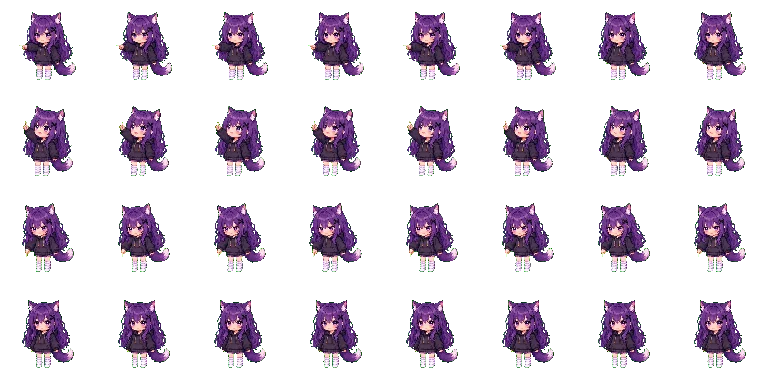
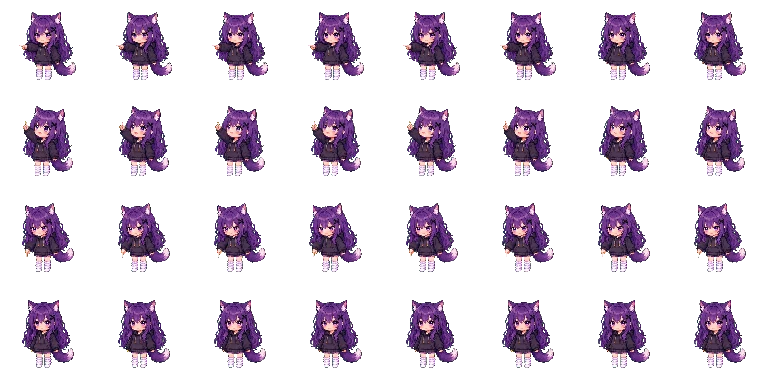
Replace Naru atlases with pre-keyed alpha sprite sheets.

diff --git a/scripts/process_naru_assets.py b/scripts/process_naru_assets.py
@@ -1,65 +1,54 @@
-"""Chroma-key Naru sprite sheets. Preserves exact atlas dimensions (no crop on sheets)."""
+"""Publish Naru atlases from pre-keyed (alpha) sources under images/naru/catgirl/."""
 from PIL import Image
-import numpy as np
 from pathlib import Path
 
 ROOT = Path(r"D:\Projects\White-Studio-Website-Games\assets\images\naru")
-RAW = ROOT / "_raw" / "catgirl"
+SRC = ROOT / "catgirl"
 OUT = ROOT
+RAW_CANON = ROOT / "_raw" / "catgirl"
 
 
-def chroma_key(img: Image.Image) -> Image.Image:
-    rgba = img.convert("RGBA")
-    arr = np.asarray(rgba).astype(np.float32)
-    r, g, b = arr[..., 0], arr[..., 1], arr[..., 2]
-    greenness = g - np.maximum(r, b)
-    alpha = np.ones_like(g) * 255.0
-    mask_hard = (greenness > 40) & (g > 90) & (g > r + 25) & (g > b + 25)
-    mask_soft = (greenness > 18) & (g > 70) & (g > r + 10) & (g > b + 10)
-    alpha[mask_soft] = np.clip(255 - (greenness[mask_soft] - 18) * 8, 0, 255)
-    alpha[mask_hard] = 0
-    spill = mask_soft & ~mask_hard
-    g2 = g.copy()
-    g2[spill] = np.minimum(g2[spill], np.maximum(r[spill], b[spill]) + 8)
-    out = np.stack([r, g2, b, alpha], axis=-1).astype(np.uint8)
-    return Image.fromarray(out, "RGBA")
+def save_sheet(src_name: str, out_stem: str) -> None:
+    src = SRC / src_name
+    im = Image.open(src).convert("RGBA")
+    png = OUT / f"{out_stem}.png"
+    webp = OUT / f"{out_stem}.webp"
+    im.save(png, optimize=True)
+    im.save(webp, "WEBP", quality=90, method=6)
+    # Keep canonical raw copy (already alpha — no green)
+    RAW_CANON.mkdir(parents=True, exist_ok=True)
+    im.save(RAW_CANON / src_name, optimize=True)
+    print(f"{out_stem:28} {im.size} png={png.stat().st_size/1024:.0f}KB webp={webp.stat().st_size/1024:.0f}KB")
 
 
-def process_sheet(name: str, quality: int = 90) -> None:
-    src = RAW / name
-    keyed = chroma_key(Image.open(src))
-    stem = Path(name).stem
-    # Keep full atlas size for CSS background-position clipping.
-    png_path = OUT / f"{stem}.png"
-    webp_path = OUT / f"{stem}.webp"
-    keyed.save(png_path, optimize=True)
-    keyed.save(webp_path, "WEBP", quality=quality, method=6)
-    print(f"{stem:32} {keyed.size}  png={png_path.stat().st_size/1024:.0f}KB webp={webp_path.stat().st_size/1024:.0f}KB")
-
-
-def process_anchor() -> None:
-    src = RAW / "naru-style-anchor-512.png"
-    keyed = chroma_key(Image.open(src))
-    bbox = keyed.getbbox()
+def save_anchor() -> None:
+    src = SRC / "naru-style-anchor-512.png"
+    im = Image.open(src).convert("RGBA")
+    bbox = im.getbbox()
     if bbox:
         pad = 8
         x0, y0, x1, y1 = bbox
         x0 = max(0, x0 - pad)
         y0 = max(0, y0 - pad)
-        x1 = min(keyed.width, x1 + pad)
-        y1 = min(keyed.height, y1 + pad)
-        keyed = keyed.crop((x0, y0, x1, y1))
-    keyed.save(OUT / "naru-style-anchor.png", optimize=True)
-    keyed.save(OUT / "naru-style-anchor.webp", "WEBP", quality=90, method=6)
-    print(f"{'naru-style-anchor':32} {keyed.size}")
+        x1 = min(im.width, x1 + pad)
+        y1 = min(im.height, y1 + pad)
+        cropped = im.crop((x0, y0, x1, y1))
+    else:
+        cropped = im
+    cropped.save(OUT / "naru-style-anchor.png", optimize=True)
+    cropped.save(OUT / "naru-style-anchor.webp", "WEBP", quality=90, method=6)
+    RAW_CANON.mkdir(parents=True, exist_ok=True)
+    im.save(RAW_CANON / "naru-style-anchor-512.png", optimize=True)
+    print(f"{'naru-style-anchor':28} {cropped.size}")
 
 
 def main() -> None:
-    OUT.mkdir(parents=True, exist_ok=True)
-    process_anchor()
-    process_sheet("naru-core-c8r4-96.png")
-    process_sheet("naru-guide-c8r4-96.png")
-    process_sheet("naru-react-c8r3-96.png")
+    if not SRC.is_dir():
+        raise SystemExit(f"Missing source folder: {SRC}")
+    save_anchor()
+    save_sheet("naru-core-c8r4-96.png", "naru-core-c8r4-96")
+    save_sheet("naru-guide-c8r4-96.png", "naru-guide-c8r4-96")
+    save_sheet("naru-react-c8r3-96.png", "naru-react-c8r3-96")
 
 
 if __name__ == "__main__":

diff --git a/docs/design/NARU-ASSET-MANIFEST.md b/docs/design/NARU-ASSET-MANIFEST.md
@@ -1,21 +1,21 @@
 # Naru asset manifest (catgirl)
 
-Canonical ship set: **`_raw/catgirl/`** (Codex / Image 2 handoff, 2026-07-31).
+Canonical ship set: **`assets/images/naru/catgirl/`** (pre-keyed alpha PNGs; no green screen).
 
 Design contract: [`NARU-SPRITE-SYSTEM.md`](./NARU-SPRITE-SYSTEM.md)  
 Prompts: [`../prompts/GPT-IMAGE-2-NARU-SPRITES.md`](../prompts/GPT-IMAGE-2-NARU-SPRITES.md)  
-Process: [`../../scripts/process_naru_assets.py`](../../scripts/process_naru_assets.py)
+Process: [`../../scripts/process_naru_assets.py`](../../scripts/process_naru_assets.py) — copies `catgirl/*.png` → site atlases + WebP (no chroma step).
 
 ## Canonical files
 
-| Role | Raw (chroma) | Site atlas (alpha) | Size | Frames |
-|------|--------------|--------------------|------|--------|
-| Style lock | `_raw/catgirl/naru-style-anchor-512.png` | `naru-style-anchor.webp` | 512→cropped | 1 |
-| Core A | `_raw/catgirl/naru-core-c8r4-96.png` | `naru-core-c8r4-96.webp` | 768×384 | 8×4=32 |
-| Guide B | `_raw/catgirl/naru-guide-c8r4-96.png` | `naru-guide-c8r4-96.webp` | 768×384 | 8×4=32 |
-| React C | `_raw/catgirl/naru-react-c8r3-96.png` | `naru-react-c8r3-96.webp` | 768×288 | 8×3=24 |
+| Role | Source (alpha) | Site atlas | Size | Frames |
+|------|----------------|------------|------|--------|
+| Style lock | `catgirl/naru-style-anchor-512.png` | `naru-style-anchor.webp` | cropped from 512 | 1 |
+| Core A | `catgirl/naru-core-c8r4-96.png` | `naru-core-c8r4-96.webp` | 768×384 | 8×4=32 |
+| Guide B | `catgirl/naru-guide-c8r4-96.png` | `naru-guide-c8r4-96.webp` | 768×384 | 8×4=32 |
+| React C | `catgirl/naru-react-c8r3-96.png` | `naru-react-c8r3-96.webp` | 768×288 | 8×3=24 |
 
-Older drafts under `_raw/naru-catgirl-*-v*.png` and non-catgirl `_raw/naru-*.png` are **archive only** — do not ship.
+`_raw/` holds older green-screen drafts / mirrors — prefer `catgirl/` as the authoring folder for new drops.
 
 ## Cell map (96×96, 8 columns)
 
@@ -59,7 +59,7 @@ background-position: (-col * 96)px (-row * 96)px
 
 | Step | State |
 |------|-------|
-| Art received (catgirl) | Done |
-| Chroma-key atlases | Done (`process_naru_assets.py`) |
+| Art received (catgirl, alpha) | Done — `images/naru/catgirl/` |
+| Site atlases + WebP | Rebuilt via `process_naru_assets.py` |
 | Pet runtime `naru-pet.js` | Done — mount after hub intro |
 | Hub mount after intro | Done |
